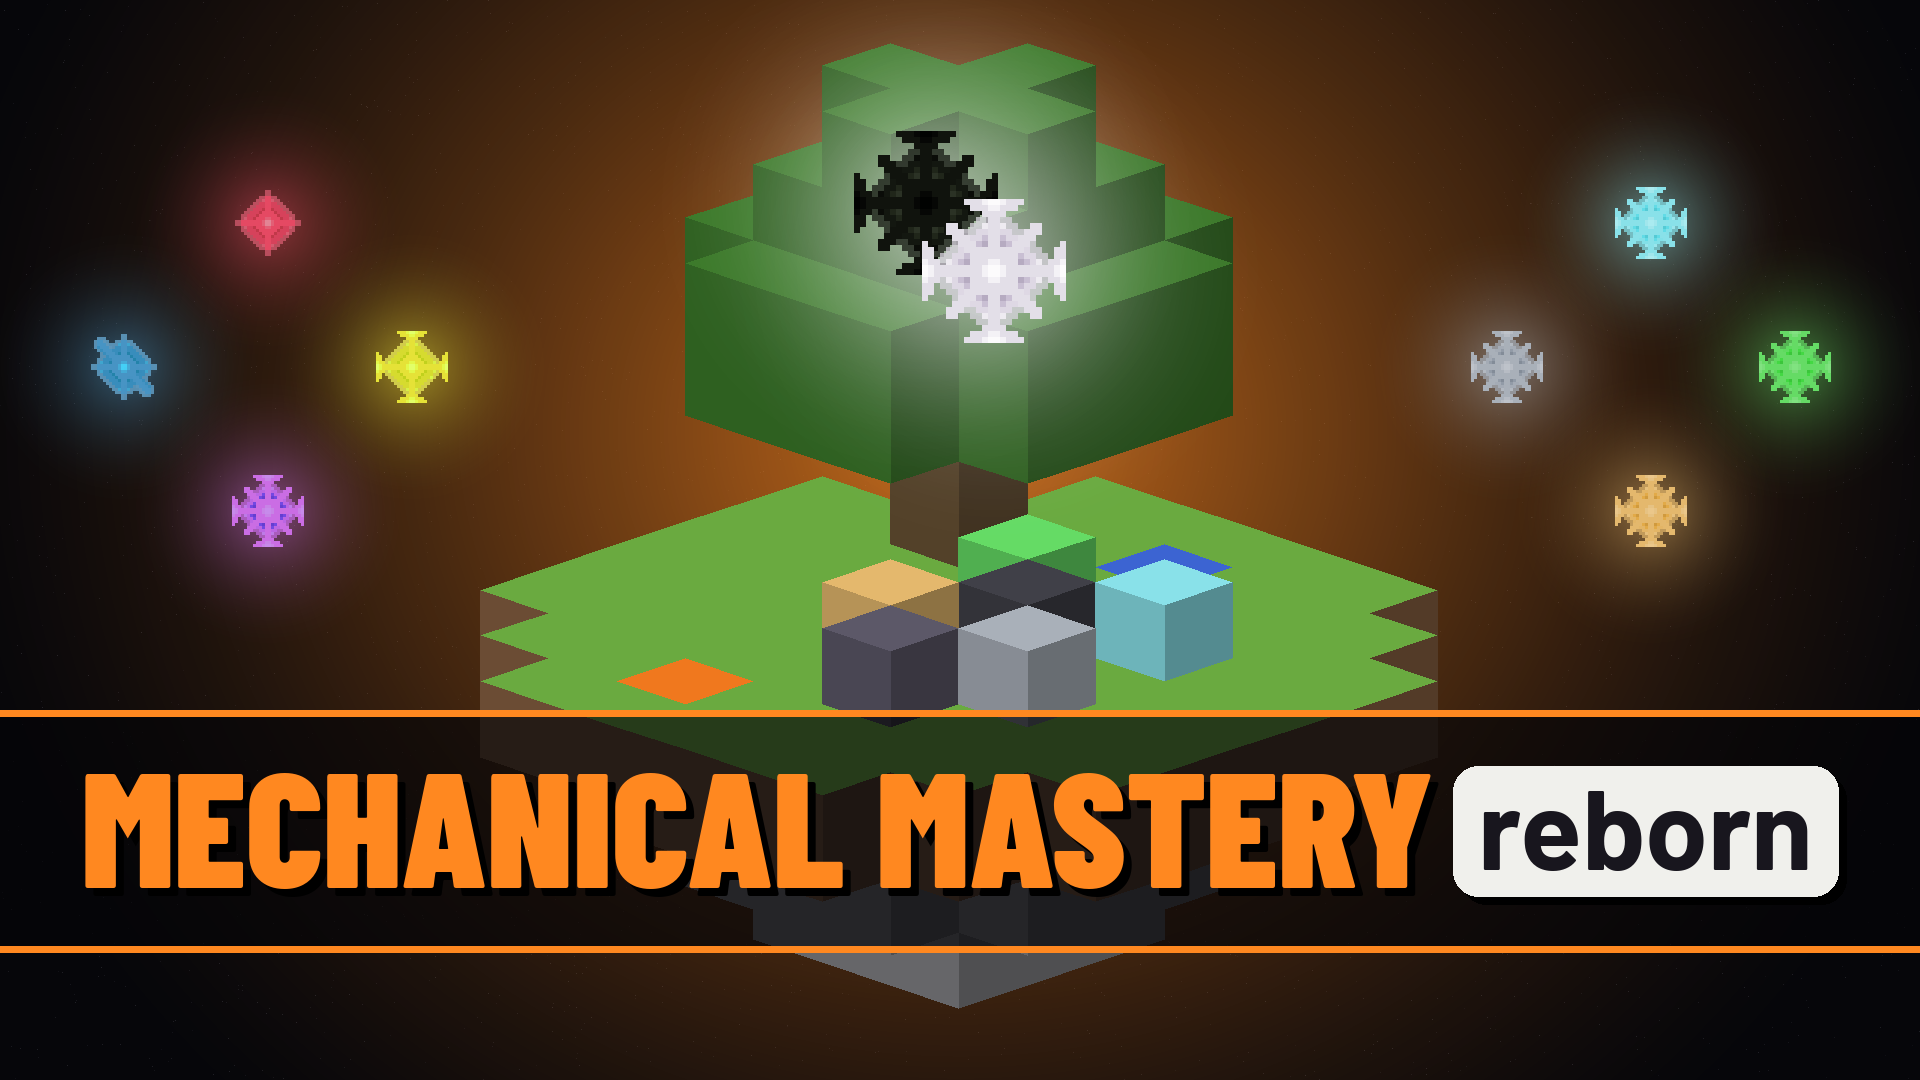
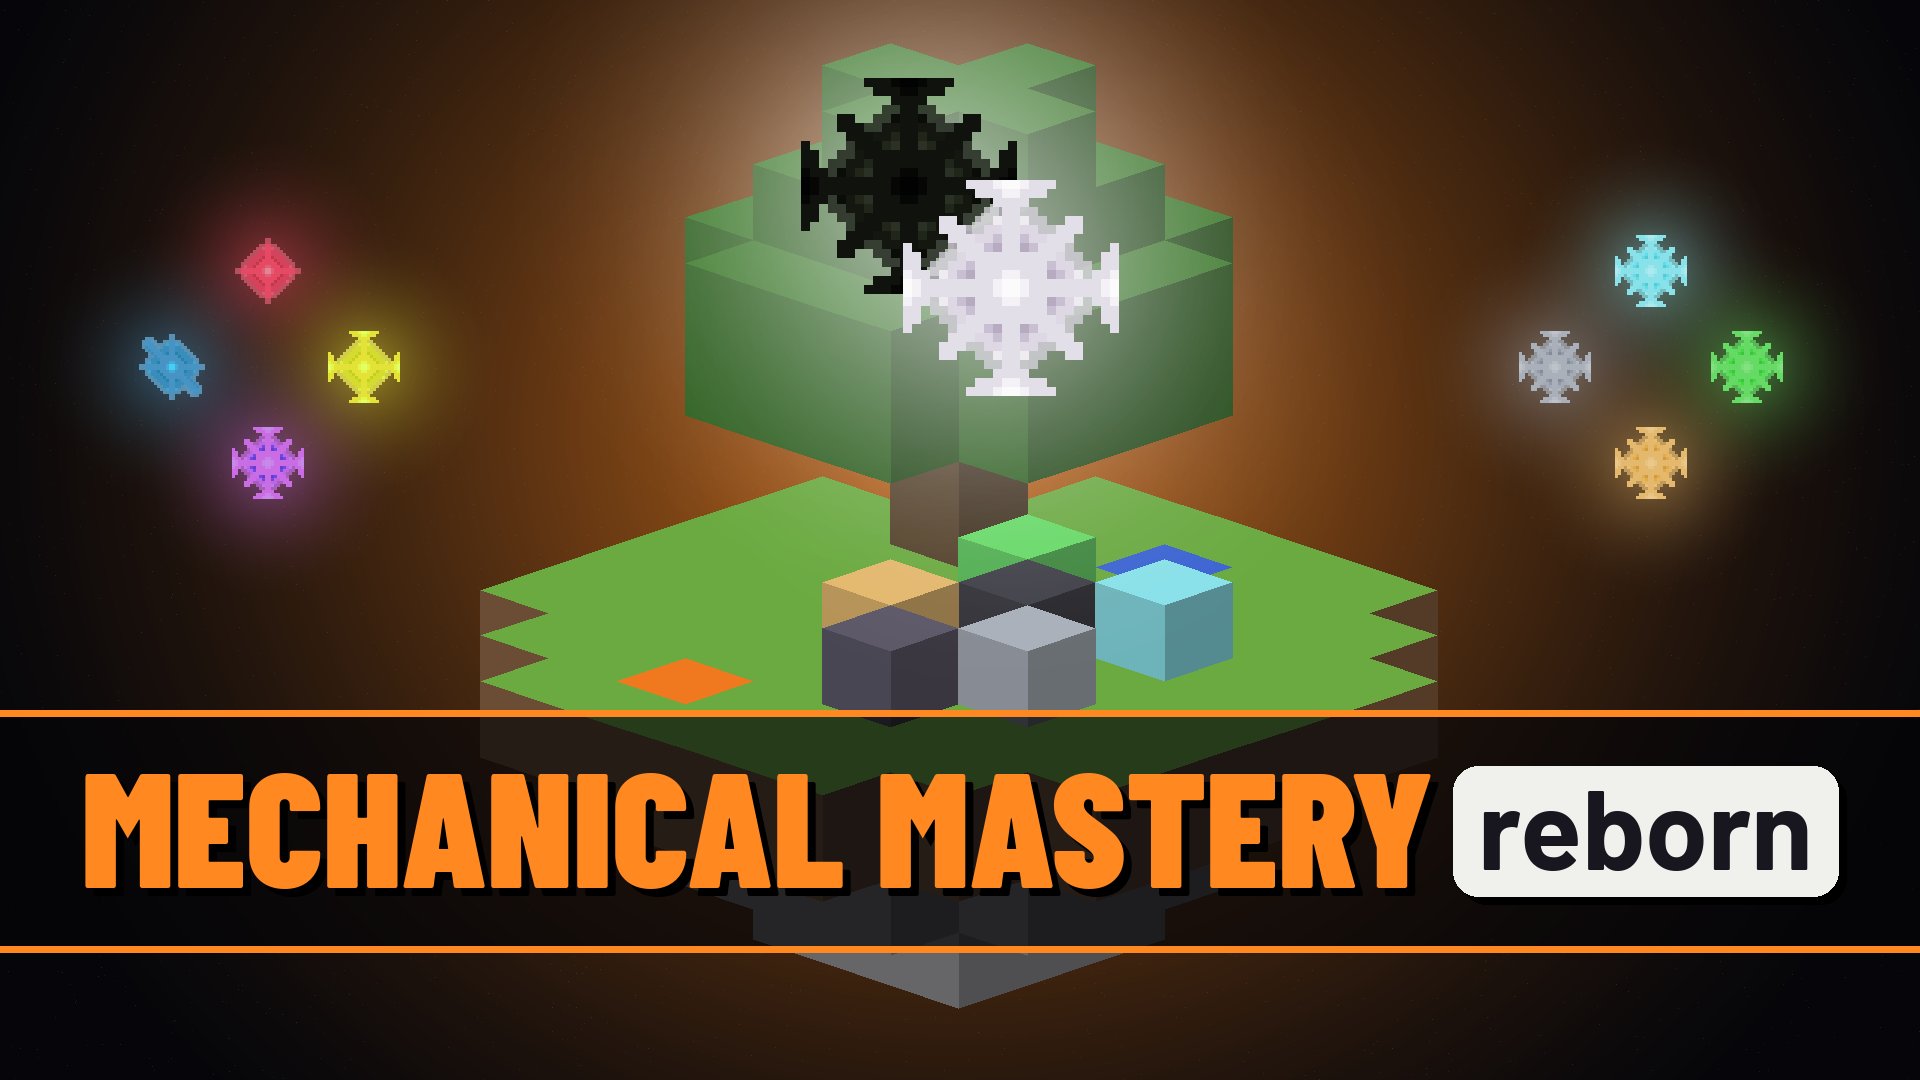
Reborn's pack art draws its essence diamonds tighter and Nullessence and Quintessence half again larger (#274)

Changed region(s): [[0.3438, 0.0, 0.6562, 0.4889], [0.0312, 0.1222, 0.25, 0.55], [0.75, 0.1222, 1.0, 0.55]]

diff --git a/MMR26.1.2/publish/make-cover.py b/MMR26.1.2/publish/make-cover.py
@@ -59,10 +59,10 @@ TRANSMUTED = ['galvanic_essence', 'warding_essence', 'vital_essence', 'aureate_e
 LAST_STAND = ['nullessence', 'quintessence']
 # where the tier essences' diamond and the Transmuted Essences' stand, as fractions of the width and
 # height, and how far a diamond's points are from its middle, in essences
-LEFT, RIGHT, SPREAD = (0.14, 0.34), (0.86, 0.34), 1.5
+LEFT, RIGHT, SPREAD = (0.14, 0.34), (0.86, 0.34), 1.0
 # where Nullessence and Quintessence stand, over the tree's leaves, how much larger than the others they
 # are drawn, and how far each stands off that middle, in their own size
-PAIR, PAIR_SCALE, OVERLAP = (0.5, 0.22), 2, 0.18
+PAIR, PAIR_SCALE, OVERLAP = (0.5, 0.22), 3, 0.18
 ISLAND = 'config/skyblockbuilder/templates/islands/reborn.snbt'
 # each of the island's blocks as the (top, side) colour it is drawn in; a Port's is its essence's
 BLOCKS = {'stone': ((128, 128, 132),) * 2, 'dirt': ((134, 96, 66),) * 2,
